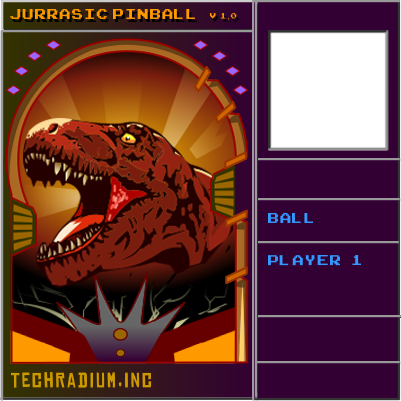
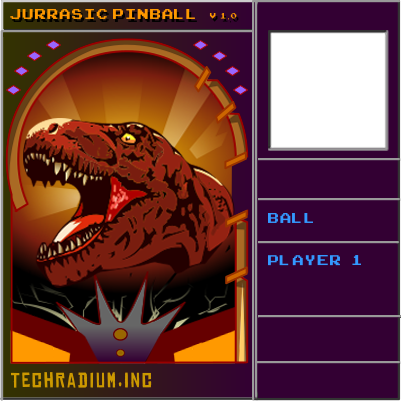
Added bounce laterals

Changed region(s): [[0.5087, 0.419, 0.5985, 0.5387], [0.0299, 0.4788, 0.0898, 0.6584]]

diff --git a/Physics2_class4 - handout/ModuleSceneIntro.cpp b/Physics2_class4 - handout/ModuleSceneIntro.cpp
@@ -33,7 +33,8 @@ bool ModuleSceneIntro::Start()
 	pin_background = App->textures->Load("pinball/background.png");
 	ball_tex = App->textures->Load("pinball/ball2.png");
 	bounce_tex = App->textures->Load("pinball/Bounce.png");
-	lateral_bounce_tex = App->textures->Load("pinball/lateral_Bounce_right.png");
+	lateral_bounce_right_tex = App->textures->Load("pinball/lateral_Bounce_right.png");
+	lateral_bounce_left_tex = App->textures->Load("pinball/lateral_Bounce_left.png");
 
 	flipper_left_tex = App->textures->Load("pinball/flipper_left.png");
 	flipper_right_tex = App->textures->Load("pinball/flipper_right.png");
@@ -191,14 +192,24 @@ update_status ModuleSceneIntro::Update()
 		bounce = bounce->next;
 	}
 
-	p2List_item<PhysBody*>* lateral_bounce = lateral_bumper.getFirst();
+	p2List_item<PhysBody*>* lateral_bounce_right = lateral_bumper_right.getFirst();
 
-	while (lateral_bounce != nullptr)
+	while (lateral_bounce_right != nullptr)
 	{
 		int x, y;
-		lateral_bounce->data->GetPosition(x, y);
-		App->renderer->Blit(lateral_bounce_tex, x, y);
-		lateral_bounce = lateral_bounce->next;
+		lateral_bounce_right->data->GetPosition(x, y);
+		App->renderer->Blit(lateral_bounce_right_tex, x, y);
+		lateral_bounce_right = lateral_bounce_right->next;
+	}
+
+	p2List_item<PhysBody*>* lateral_bounce_left = lateral_bumper_left.getFirst();
+
+	while (lateral_bounce_left != nullptr)
+	{
+		int x, y;
+		lateral_bounce_left->data->GetPosition(x, y);
+		App->renderer->Blit(lateral_bounce_left_tex, x, y);
+		lateral_bounce_left = lateral_bounce_left->next;
 	}
 
 	return UPDATE_CONTINUE;
@@ -221,6 +232,16 @@ void ModuleSceneIntro::OnCollision(PhysBody* bodyA, PhysBody* bodyB)
 
 	}
 
+	if (App->input->GetKey(SDL_SCANCODE_LEFT) == KEY_REPEAT)
+	{
+		App->scene_intro->left_flipper->body->ApplyAngularImpulse(-0.5f, true);
+	}
+
+	if (App->input->GetKey(SDL_SCANCODE_RIGHT) == KEY_REPEAT)
+	{
+		App->scene_intro->right_flipper->body->ApplyAngularImpulse(0.5f, true);
+	}
+
 	if (bodyA->body->GetFixtureList()->IsSensor())
 	{
 	ball->body->ApplyForce({ 0,-power_ball }, ball->body->GetLocalCenter(), true);
@@ -237,7 +258,7 @@ void ModuleSceneIntro::OnCollision(PhysBody* bodyA, PhysBody* bodyB)
 		item = item->next;
 	}
 
-	p2List_item<PhysBody*>* item2 = lateral_bumper.getFirst();
+	p2List_item<PhysBody*>* item2 = lateral_bumper_right.getFirst();
 
 	while (item2 != nullptr)
 	{
@@ -246,6 +267,17 @@ void ModuleSceneIntro::OnCollision(PhysBody* bodyA, PhysBody* bodyB)
 			reboted = true;
 		}
 		item2 = item2->next;
+	}
+
+	p2List_item<PhysBody*>* item3 = lateral_bumper_left.getFirst();
+
+	while (item3 != nullptr)
+	{
+		if (bodyB == item3->data)
+		{
+			reboted = true;
+		}
+		item3 = item3->next;
 	}
 
 	if (reboted)
@@ -299,7 +331,7 @@ void ModuleSceneIntro::SetChain(){
 	69, 363
 	};
 
-	background_chain = App->physics->CreateChain(0, 0, background, false, 74);
+	background_chain = App->physics->CreateChain(0, 0, background, false, 74, 0.0f);
 
 	int laterals_balldrop1[8] = {
 	10, 331,
@@ -308,7 +340,7 @@ void ModuleSceneIntro::SetChain(){
 	69, 353
 	};
 
-	background_chain2 = App->physics->CreateChain(0, 0, laterals_balldrop1, false, 8);
+	background_chain2 = App->physics->CreateChain(0, 0, laterals_balldrop1, false, 8, 0.0f);
 
 	int laterals_balldrop2[8] = {
 	234, 330,
@@ -317,7 +349,7 @@ void ModuleSceneIntro::SetChain(){
 	234, 362
 	};
 
-	background_chain3 = App->physics->CreateChain(0, 0, laterals_balldrop2, false, 8);
+	background_chain3 = App->physics->CreateChain(0, 0, laterals_balldrop2, false, 8, 0.0f);
 
 	int ball_tube[64] = {
 	86, 59,
@@ -354,7 +386,7 @@ void ModuleSceneIntro::SetChain(){
 	89, 59
 };
 
-	background_chain4 = App->physics->CreateChain(0, 0, ball_tube, false, 64);
+	background_chain4 = App->physics->CreateChain(0, 0, ball_tube, false, 64, 0.0f);
 
 	int lateral_down_left[20] = {
 	31, 314,
@@ -369,7 +401,7 @@ void ModuleSceneIntro::SetChain(){
 	31, 316
 	};
 	
-	background_chain5 = App->physics->CreateChain(0, 0, lateral_down_left, false, 20);
+	background_chain5 = App->physics->CreateChain(0, 0, lateral_down_left, false, 20, 0.0f);
 
 	int lateral_down_right[16] = {
 	217, 313,
@@ -382,7 +414,7 @@ void ModuleSceneIntro::SetChain(){
 	217, 314
 	};
 
-	background_chain6 = App->physics->CreateChain(0, 0, lateral_down_right, false, 16);
+	background_chain6 = App->physics->CreateChain(0, 0, lateral_down_right, false, 16, 0.0f);
 	
 
 }
@@ -425,16 +457,45 @@ void ModuleSceneIntro::AddBodies() {
 	//Lateral bumpers
 
 	p2List_item<PhysBody*>* item2;
-	lateral_bumper.add(App->physics->CreateRectangle(350, 200, 10, 40, false, 1.5f));
-	lateral_bumper.add(App->physics->CreateRectangle(350, 240, 10, 40, false, 1.5f));
 
-	item2 = lateral_bumper.getFirst();
+	int lateral_Bounce_right[10] = {
+	26, 1,
+	26, 61,
+	1, 48,
+	1, 19,
+	5, 11
+	};
+	
+	lateral_bumper_right.add(App->physics->CreateChain(300, 200, lateral_Bounce_right, false, 10, 1.5f));
+	
+	item2 = lateral_bumper_right.getFirst();
 
 	while (item2 != nullptr)
 	{
 		item2->data->listener = this;
 		item2 = item2->next;
 	}
+	
+	p2List_item<PhysBody*>* item3;
+
+	int lateral_Bounce_left[10] = {
+	0, 1,
+	0, 60,
+	24, 49,
+	24, 18,
+	20, 11
+	};
+	
+	lateral_bumper_left.add(App->physics->CreateChain(340, 200, lateral_Bounce_left, false, 10, 1.5f));
+		
+	item3 = lateral_bumper_left.getFirst();
+
+	while (item3 != nullptr)
+	{
+		item3->data->listener = this;
+		item3 = item3->next;
+	}
+
 
 }
 

diff --git a/Physics2_class4 - handout/ModuleSceneIntro.h b/Physics2_class4 - handout/ModuleSceneIntro.h
@@ -32,7 +32,8 @@ public:
 	PhysBody* sensor;
 	PhysBody* rect_ground;
 	p2List<PhysBody*> bumper;
-	p2List<PhysBody*> lateral_bumper;
+	p2List<PhysBody*> lateral_bumper_right;
+	p2List<PhysBody*> lateral_bumper_left;
 
 	PhysBody* background_chain;
 	PhysBody* background_chain2;
@@ -63,7 +64,8 @@ public:
 	SDL_Texture* pin_background;
 	SDL_Texture* ball_tex;
 	SDL_Texture* bounce_tex;
-	SDL_Texture* lateral_bounce_tex;
+	SDL_Texture* lateral_bounce_left_tex;
+	SDL_Texture* lateral_bounce_right_tex;
 	SDL_Texture* flipper_left_tex;
 	SDL_Texture* flipper_right_tex;
 	SDL_Texture* tunnel_tex;

diff --git a/Physics2_class4 - handout/ModulePhysics.cpp b/Physics2_class4 - handout/ModulePhysics.cpp
@@ -147,7 +147,7 @@ PhysBody* ModulePhysics::CreateRectangleSensor(int x, int y, int width, int heig
 	return pbody;
 }
 
-PhysBody* ModulePhysics::CreateChain(int x, int y, int* points, bool dynamic, int size)
+PhysBody* ModulePhysics::CreateChain(int x, int y, int* points, bool dynamic, int size, float velocity)
 {
 	b2BodyDef body;
 	if (dynamic)
@@ -171,7 +171,7 @@ PhysBody* ModulePhysics::CreateChain(int x, int y, int* points, bool dynamic, in
 
 	b2FixtureDef fixture;
 	fixture.shape = &shape;
-	
+	fixture.restitution = velocity;
 
 	b->CreateFixture(&fixture);
 

diff --git a/Physics2_class4 - handout/ModulePhysics.h b/Physics2_class4 - handout/ModulePhysics.h
@@ -47,7 +47,7 @@ public:
 	PhysBody* CreateRectangle(int x, int y, int width, int height, bool dynamic, float velocity);
 
 	PhysBody* CreateRectangleSensor(int x, int y, int width, int height);
-	PhysBody* CreateChain(int x, int y, int* points, bool dynamic, int size);
+	PhysBody* CreateChain(int x, int y, int* points, bool dynamic, int size, float velocity);
 
 	// b2ContactListener ---
 	void BeginContact(b2Contact* contact);

diff --git a/Physics2_class4 - handout/ModulePlayer.cpp b/Physics2_class4 - handout/ModulePlayer.cpp
@@ -39,15 +39,7 @@ bool ModulePlayer::CleanUp()
 update_status ModulePlayer::Update()
 {
 
-	if (App->input->GetKey(SDL_SCANCODE_LEFT) == KEY_REPEAT)
-	{
-		App->scene_intro->left_flipper->body->ApplyAngularImpulse(-0.5f, true);
-	}
-
-	if (App->input->GetKey(SDL_SCANCODE_RIGHT) == KEY_REPEAT)
-	{
-		App->scene_intro->right_flipper->body->ApplyAngularImpulse(0.5f, true);
-	}
+	
 
 	return UPDATE_CONTINUE;
 }
